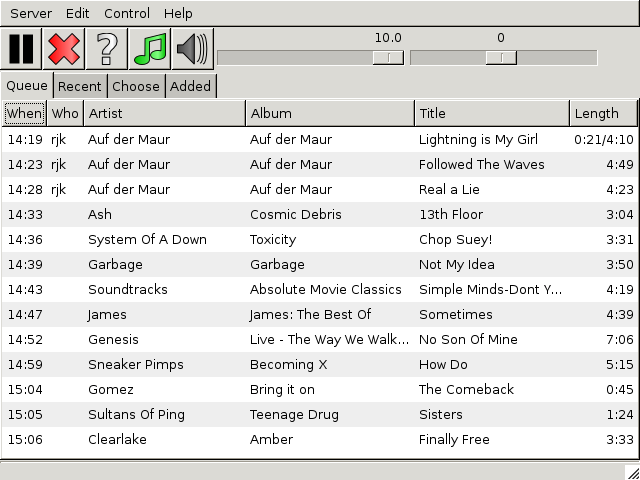
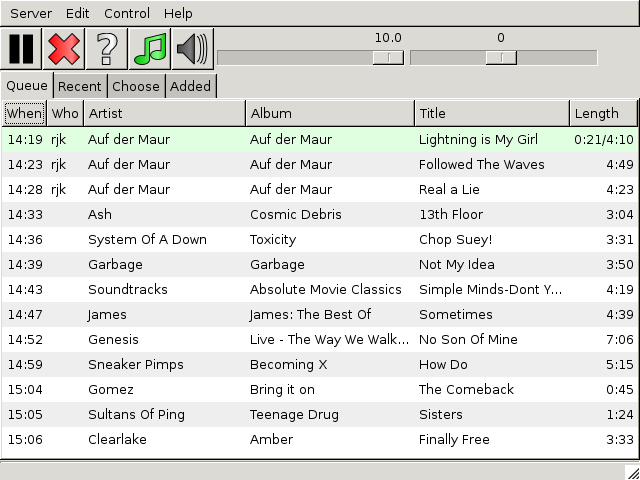
Reflect green cell-background for playing track in manual.  Edited the image rather than re-taking the screenshot!

Changed region(s): [[0.0, 0.25, 1.0, 0.3438]]

diff --git a/disobedience/manual/window.html b/disobedience/manual/window.html
@@ -56,8 +56,9 @@ along with this program.  If not, see <http://www.gnu.org/licenses/>.
 
    <p class=image><img src="queue2.png"></p>
 
-   <p>The first track is 4 minutes and 10 seconds long and so far, the
-   first 21 seconds of it has played.</p>
+   <p>The playing track is highlighted with a green backgroud.  It's 4
+   minutes and 10 seconds long and so far, the first 21 seconds of it
+   has played.</p>
 
    <h2><a name=buttons>2.2 Buttons</a></h2>
 
